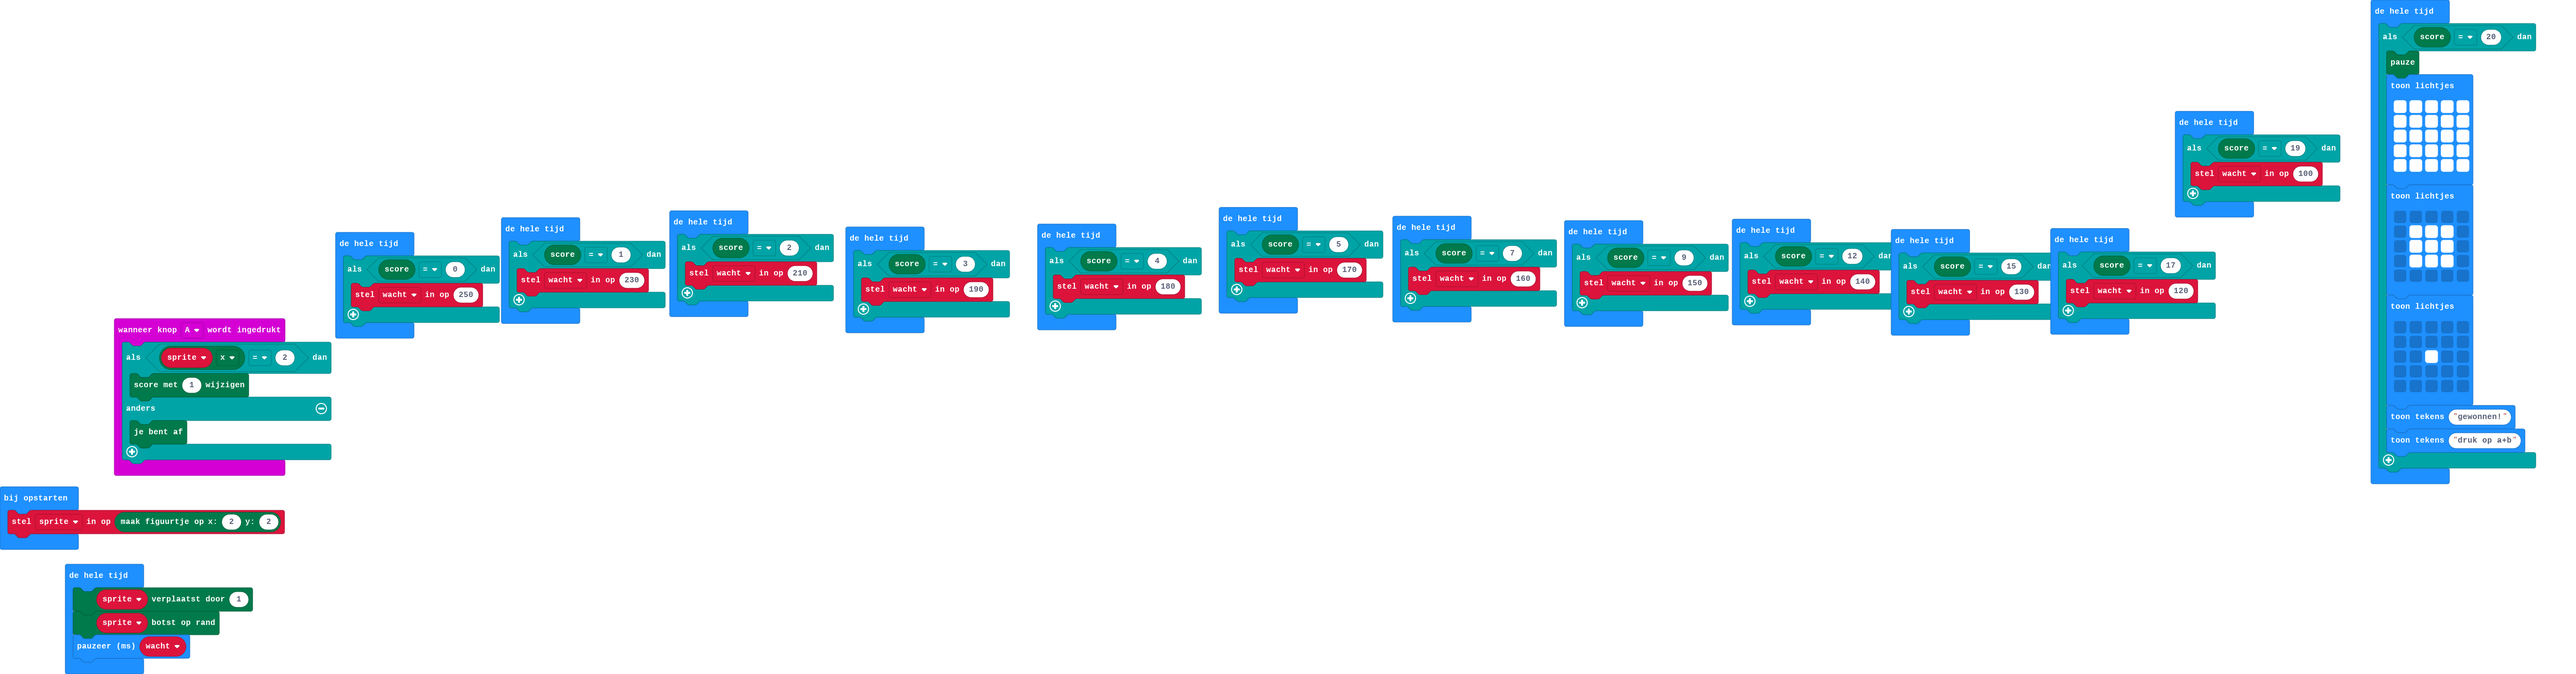
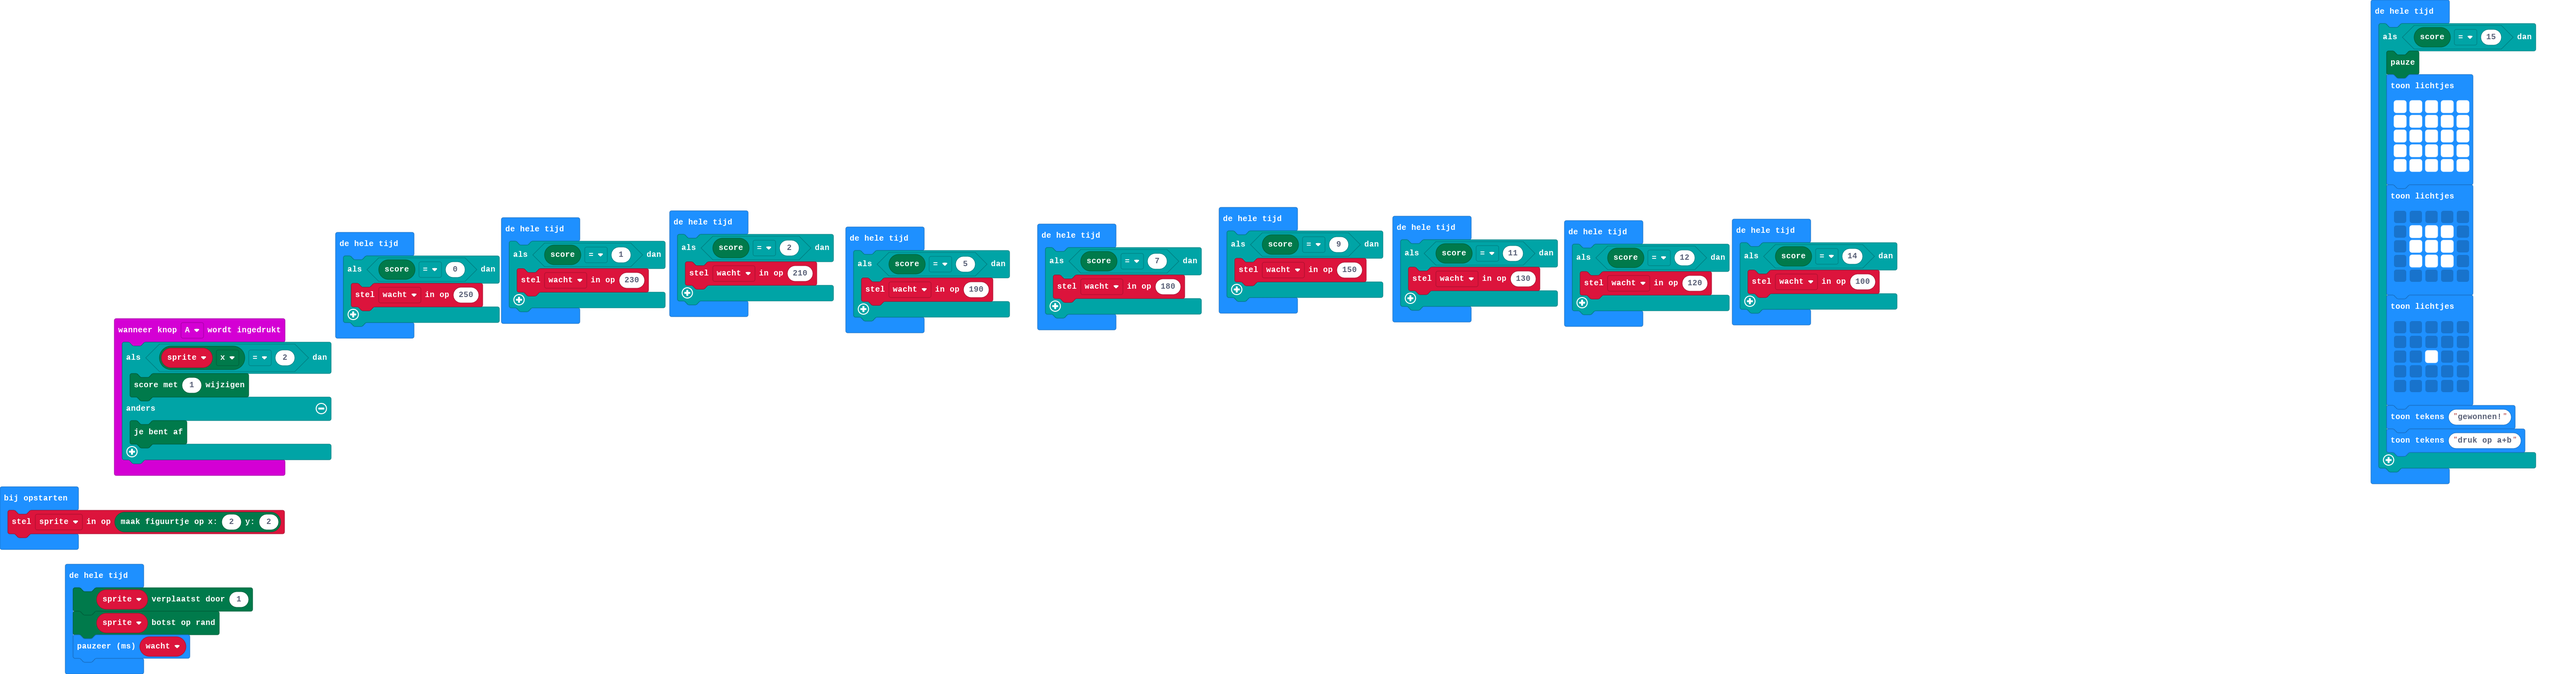
eerder winnen

Changed region(s): [[0.7183, 0.336, 0.8745, 0.5193], [0.8433, 0.1527, 0.9057, 0.336]]

diff --git a/main.ts b/main.ts
@@ -9,7 +9,7 @@ let wacht = 0
 let sprite: game.LedSprite = null
 sprite = game.createSprite(2, 2)
 basic.forever(function () {
-    if (game.score() == 20) {
+    if (game.score() == 15) {
         game.pause()
         basic.showLeds(`
             # # # # #
@@ -37,11 +37,6 @@ basic.forever(function () {
     }
 })
 basic.forever(function () {
-    if (game.score() == 19) {
-        wacht = 100
-    }
-})
-basic.forever(function () {
     if (game.score() == 1) {
         wacht = 230
     }
@@ -57,43 +52,33 @@ basic.forever(function () {
     }
 })
 basic.forever(function () {
-    if (game.score() == 5) {
-        wacht = 170
-    }
-})
-basic.forever(function () {
-    if (game.score() == 3) {
-        wacht = 190
-    }
-})
-basic.forever(function () {
-    if (game.score() == 4) {
-        wacht = 180
-    }
-})
-basic.forever(function () {
-    if (game.score() == 7) {
-        wacht = 160
-    }
-})
-basic.forever(function () {
     if (game.score() == 9) {
         wacht = 150
     }
 })
 basic.forever(function () {
-    if (game.score() == 12) {
-        wacht = 140
+    if (game.score() == 5) {
+        wacht = 190
     }
 })
 basic.forever(function () {
-    if (game.score() == 15) {
+    if (game.score() == 7) {
+        wacht = 180
+    }
+})
+basic.forever(function () {
+    if (game.score() == 11) {
         wacht = 130
     }
 })
 basic.forever(function () {
-    if (game.score() == 17) {
+    if (game.score() == 12) {
         wacht = 120
+    }
+})
+basic.forever(function () {
+    if (game.score() == 14) {
+        wacht = 100
     }
 })
 basic.forever(function () {
